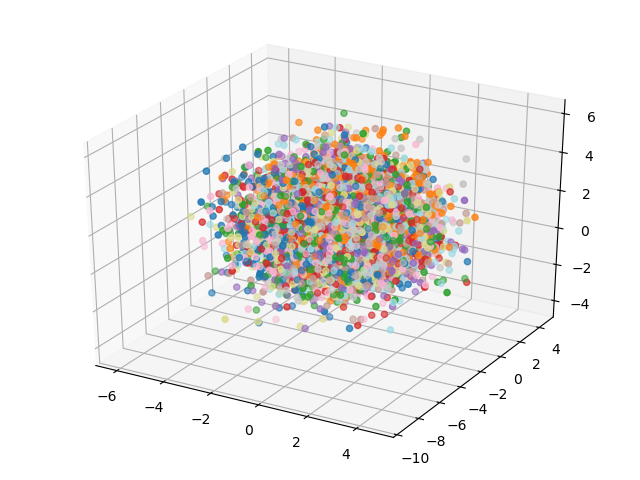
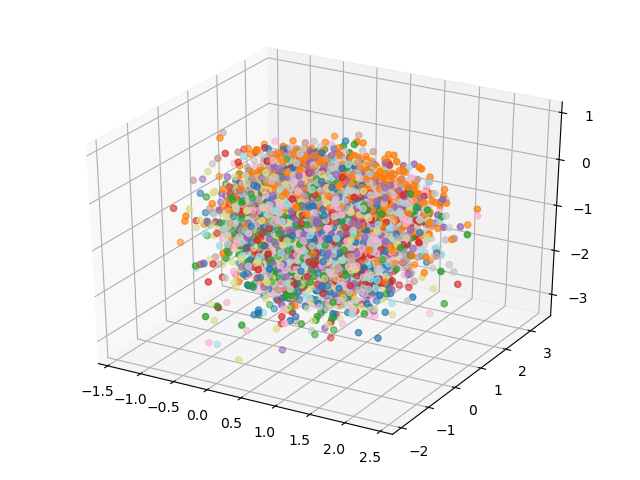
Update some files

diff --git a/mnist/src/networks/Layers.py b/mnist/src/networks/Layers.py
@@ -35,24 +35,23 @@ class Gaussian(nn.Module):
     def __init__(self, in_dim, z_dim):
         super().__init__()
         self.mu = nn.Linear(in_dim, z_dim)
-        self.var = nn.Linear(in_dim, z_dim)
+        self.sigma = nn.Linear(in_dim, z_dim)
 
-    def reparameterize(self, mu, var):
+    def reparameterize(self, mu, sigma):
         # reparameterize trick
         # std = torch.sqrt(var + 1e-10)
         # noise = torch.randn_like(std)
         # z = mu + noise * std
-        std = torch.exp(0.5 * var)
-        eps = torch.randn_like(std)
-        return mu + eps * std
+        noise = torch.randn_like(sigma)
+        return mu + noise * sigma
         return z
 
     def forward(self, x):
         mu = self.mu(x)
         # var is non-zero
-        var = F.softplus(self.var(x))
-        z = self.reparameterize(mu, var)
-        return mu, var, z
+        sigma = F.softplus(self.sigma(x)) + 1e-10
+        z = self.reparameterize(mu, sigma)
+        return mu, sigma, z
 
 
 class Encoder(nn.Module):
@@ -86,9 +85,9 @@ class Encoder(nn.Module):
 
     def forward(self, x):
         x_features, indices = self.x_features(x)
-        z_mu, z_var, z = self.gaussian(x_features)
+        z_mu, z_sigma, z = self.gaussian(x_features)
 
-        return {'z_mu': z_mu, 'z_var': z_var,
+        return {'z_mu': z_mu, 'z_sigma': z_sigma,
                 'z': z, 'indices': indices}
 
 

diff --git a/mnist/src/models/VAE.py b/mnist/src/models/VAE.py
@@ -38,10 +38,10 @@ class VAE:
     def get_loss(self, x, out):
         # obtain network variables
         z, x_reconst = out['z'], out['x_reconst']
-        z_mu, z_var = out['z_mu'], out['z_var']
+        z_mu, z_sigma = out['z_mu'], out['z_sigma']
 
         loss_rec = self.losses.reconstruction_loss(x, x_reconst)
-        kl_divergence = self.losses.gaussian_kl_divergence(z, z_mu, z_var)
+        kl_divergence = self.losses.gaussian_kl_divergence(z, z_mu, z_sigma)
         total = loss_rec - kl_divergence
 
         loss_dic = {'total': total,

diff --git a/mnist/src/losses/LossFunctions.py b/mnist/src/losses/LossFunctions.py
@@ -12,7 +12,7 @@ class LossFunctions:
         loss = F.binary_cross_entropy(x_, x, reduction='sum')
         return loss.mean()
 
-    def gaussian_kl_divergence(self, z, z_mu, z_var):
-        kl = 0.5 * torch.sum(1 + z_var.pow(2).log()
-                             - z_mu.pow(2) - z_var.pow(2))
+    def gaussian_kl_divergence(self, z, z_mu, z_sigma):
+        kl = 0.5 * torch.sum(1 + z_sigma.pow(2).log()
+                             - z_mu.pow(2) - z_sigma.pow(2))
         return kl

diff --git a/mnist/src/functions/Functions.py b/mnist/src/functions/Functions.py
@@ -13,7 +13,7 @@ class Functions:
         fig = plt.figure()
         ax = fig.add_subplot(111, projection='3d')
 
-        ax.scatter(zz[:, 0], zz[:, 1], zz[:, 2], c=colors, cmap='tab20')
+        ax.scatter(zz[:, 0], zz[:, 1], zz[:, 2], c=colors, s=1.0, cmap='tab20')
         fig.tight_layout()
         fig.savefig(out)
         plt.close()
